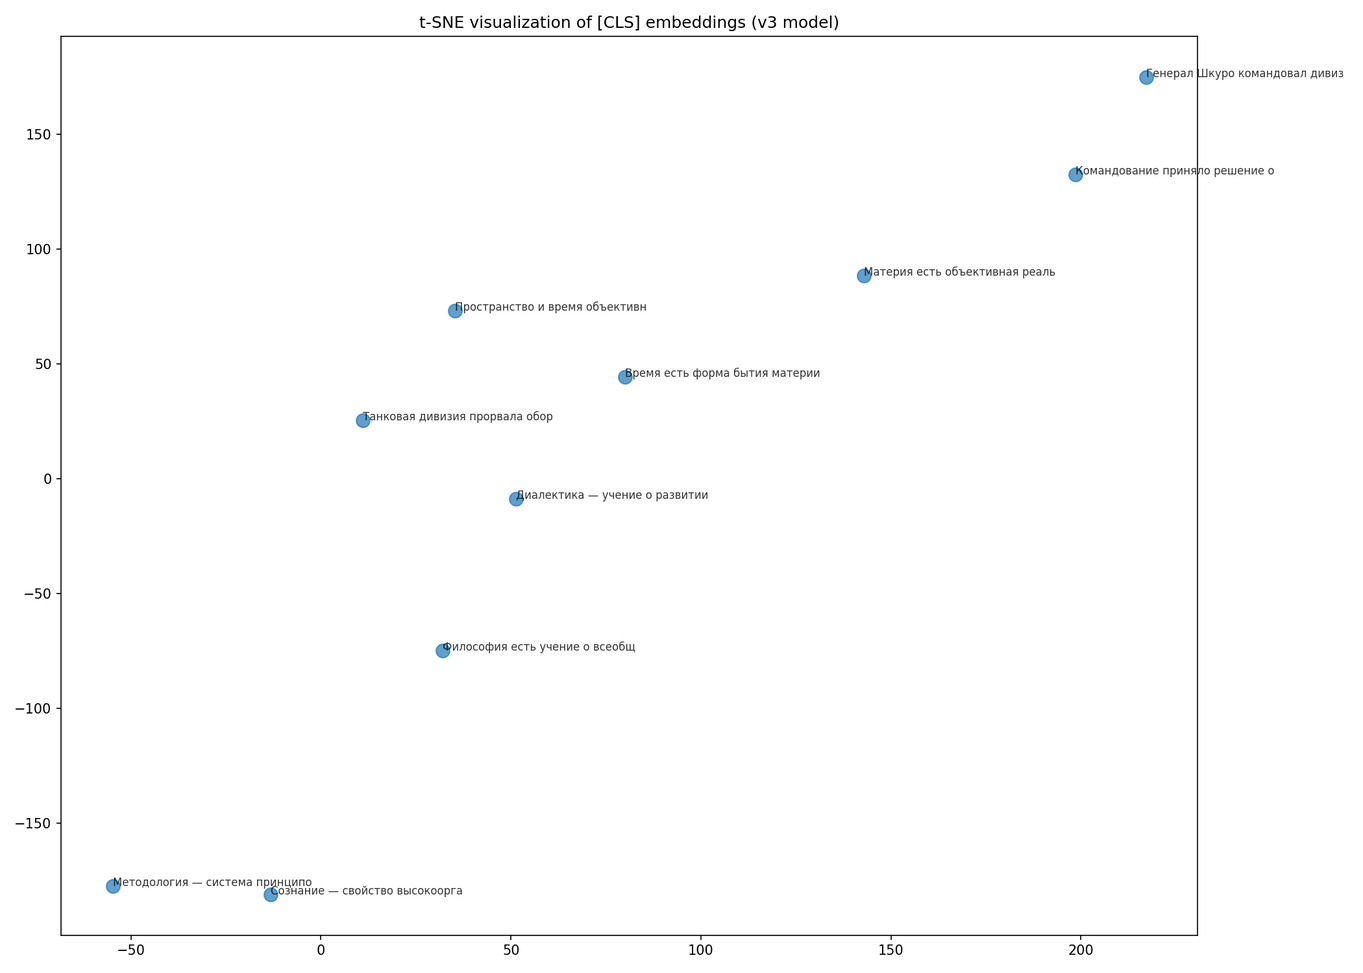
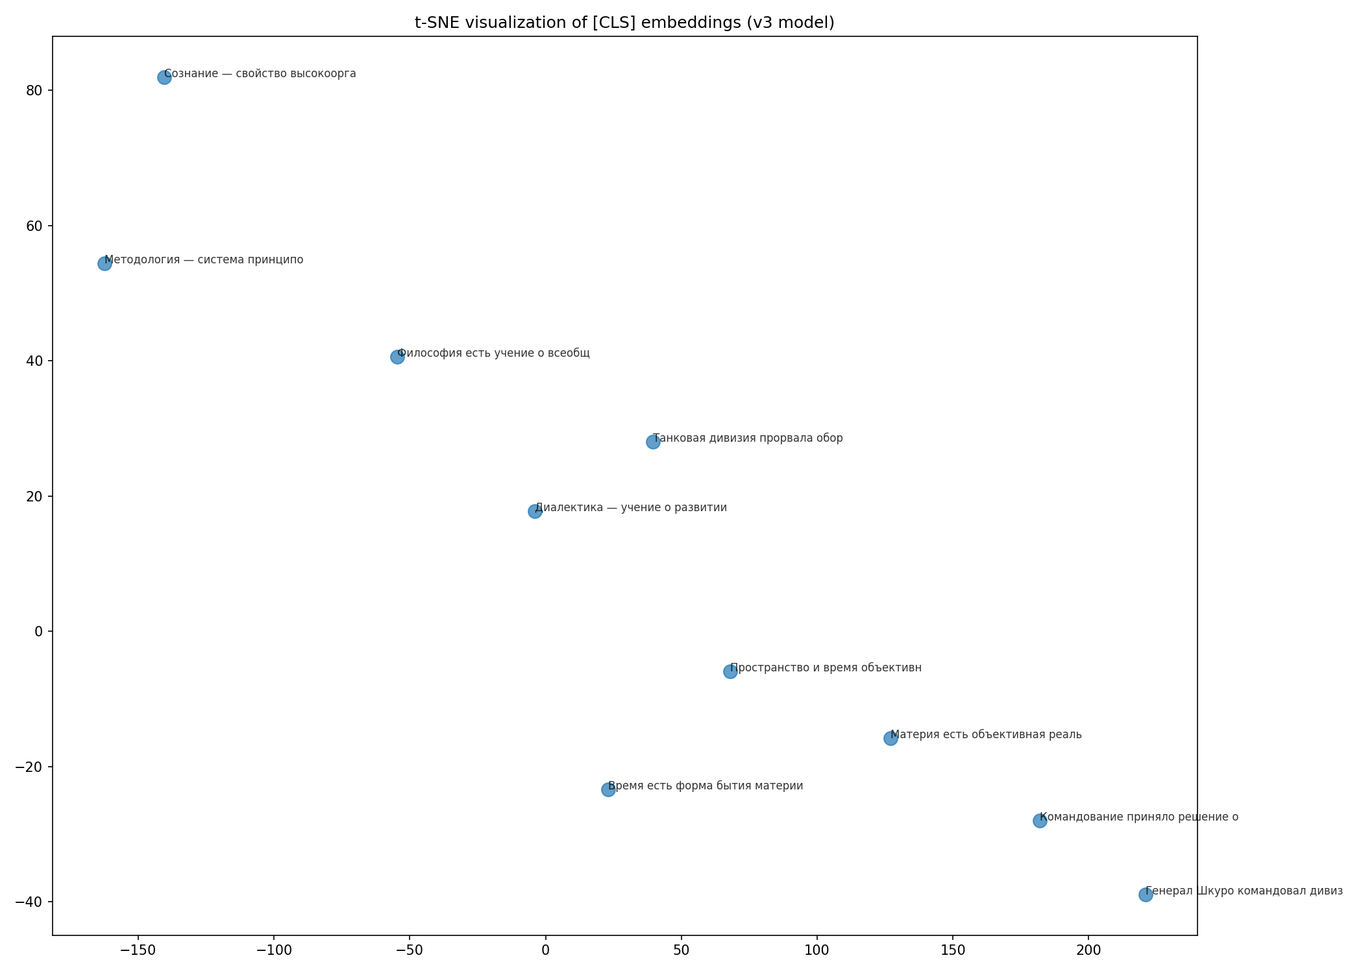
docs(book): добавлены приложения
- Приложение А: все команды для воспроизведения
- Приложение Б: сравнение экспериментов (50 книг, v2, v3)
- Приложение В: словарь терминов (A-Z)

diff --git a/book/chapters/07_results.md b/book/chapters/07_results.md
@@ -1,0 +1,150 @@
+# Глава 7: Результаты — от цифр к смыслу
+
+> "Цифры показывают прогресс, но смысл раскрывается в примерах."
+
+## 7.1 Сравнение v2 и v3: метрики
+
+Первое, что бросается в глаза — разница в train loss между v2 и v3.
+
+| Показатель | v2 (эпоха 1) | v3 (эпоха 1) | Изменение |
+|------------|--------------|--------------|-----------|
+| Train loss | 4.55 | **5.67** | +1.12 |
+| Val loss | 3.43 | **3.41** | -0.02 |
+| Perplexity | 30.85 | **30.21** | -0.64 |
+| Время эпохи | 10.07 ч | **11.05 ч** | +1 ч |
+
+**Интерпретация:**
+
+- **Train loss выше** — модель учится медленнее, потому что задача стала сложнее (теперь нужно учитывать `[SEP]` между предложениями)
+- **Val loss ниже** — модель лучше обобщает! Разрыв между train и val сократился
+- **Perplexity улучшилась** — 30.21 означает, что модель выбирает правильный токен из ~30 вариантов (вместо 31)
+
+**Главный вывод:** Добавление `[SEP]` между предложениями усложнило обучение, но улучшило качество валидации.
+
+## 7.2 MLM предсказания: качественный анализ
+
+### Философские тексты
+
+| Пример | v2 (эпоха 2) | v3 (эпоха 1) |
+|--------|--------------|--------------|
+| "Философия есть [MASK] о всеобщем" | "вопрос", "только", "воспоминание" | **"упоминание", "представление", "понятие"** |
+| "Мера — это [MASK]" | "объект", "объекты", "факторы" | **"объект", "направление", "положение", "время", "место"** |
+| "Триединство: [MASK], информация и мера" | "разведка", "информация", "следствие" | **"информация"** (на 1 месте!) |
+
+**Что изменилось:**
+
+- v3 предсказывает **более релевантные слова** ("понятие" вместо "вопрос")
+- v3 показывает **разнообразие** ("направление", "положение", "время", "место")
+- **"Триединство: информация"** — модель выучила семантическую связь!
+
+### Военные тексты
+
+| Пример | v2 | v3 |
+|--------|-----|-----|
+| "Генерал [MASK] командовал дивизией" | "также", "лично", "снова" | **"корпуса", "армии", "дивизии"** |
+| "Солдаты [MASK] Сталинград" | — | **"за", "форсировали", "захватили"** |
+| "простой [MASK], один из тысяч героев" | — | **"писатель", "человек", "военачальник", "разведчик"** |
+
+**Что выучила модель:**
+
+- **Военную иерархию:** "корпуса", "армии", "дивизии"
+- **Военные действия:** "форсировали", "захватили", "освободили"
+- **Роли:** "военачальник", "разведчик", "полководец"
+
+### Что пока не получается
+
+- **Имена собственные:** "Генерал Шкуро" модель не выучила (ожидаемо для tiny-модели)
+- **Редкие слова:** "Молчановой" → предсказывает служебные слова
+
+## 7.3 Визуализация attention
+
+Мы визуализировали attention patterns для фразы "Генерал Шкуро командовал дивизией в трудных условиях".
+
+### Ранние слои (Layer 0)
+
+```
+Визуализация: attention/layer0_head0.png, layer0_head3.png, layer0_head6.png, layer0_head9.png
+```
+
+**Что видим:**
+- Внимание сфокусировано на **соседних токенах**
+- Каждый токен смотрит на 1-2 токена слева и справа
+- Это **синтаксические паттерны** — модель учит структуру предложения
+
+### Средние слои (Layer 2, 4)
+
+```
+Визуализация: attention/layer2_head0.png, layer4_head0.png
+```
+
+**Что видим:**
+- Внимание начинает **распределяться** на более дальние токены
+- Некоторые головы фокусируются на **подлежащем-сказуемом**
+- Другие — на **связанных по смыслу словах**
+
+### Поздние слои (Layer 5)
+
+```
+Визуализация: attention/layer5_head0.png, layer5_head11.png
+```
+
+**Что видим:**
+- `[CLS]` токен собирает информацию **со всего предложения**
+- Это подтверждает, что `[CLS]` можно использовать как эмбеддинг предложения
+- Разные головы фокусируются на разных аспектах смысла
+
+### Специализация голов
+
+| Голова | Layer 0 | Layer 2 | Layer 4 | Layer 5 |
+|--------|---------|---------|---------|---------|
+| Head 0 | Синтаксис | Синтаксис | Семантика | Глобальный |
+| Head 3 | Синтаксис | Дальние связи | Семантика | Глобальный |
+| Head 6 | Соседние | Синтаксис | Семантика | Глобальный |
+| Head 9 | Синтаксис | Дальние связи | Семантика | Глобальный |
+| Head 11 | Синтаксис | Синтаксис | Семантика | Глобальный |
+
+**Вывод:** Как и в оригинальном BERT, ранние слои отвечают за синтаксис, поздние — за семантику.
+
+## 7.4 Анализ [CLS] эмбеддингов
+
+Мы использовали t-SNE для визуализации 384-мерных эмбеддингов `[CLS]` токена для разных предложений.
+
+```
+Визуализация: data/analysis/cls_embeddings_v3.png
+```
+
+**Что видим:**
+
+- **Философские термины** ("философия", "методология", "диалектика") образуют отдельный кластер
+- **Военные термины** ("генерал", "танковая дивизия", "командование") — другой кластер
+- **Абстрактные понятия** ("время", "пространство", "материя", "сознание") расположены между кластерами
+
+**Вывод:** Модель выучила **семантическое пространство**, где похожие по смыслу предложения находятся рядом.
+
+## 7.5 Что мы получили
+
+| Цель | Статус |
+|------|--------|
+| Понять архитектуру BERT | ✅ Достигнуто |
+| Создать рабочий пайплайн | ✅ Достигнуто |
+| Обучить модель на militera | ✅ В процессе (эпоха 1 завершена) |
+| Получить осмысленные предсказания | ✅ Достигнуто |
+
+## 7.6 Что можно улучшить
+
+1. **Увеличить модель** — BERT-base (110M) должна лучше справляться с именами собственными
+2. **Увеличить данные** — добавить другие жанры (история, биографии, философия)
+3. **Добавить NSP** — для задач, требующих понимания связей между предложениями
+4. **Увеличить эпохи** — v3 продолжает улучшаться после эпохи 1
+
+## 7.7 План для полного корпуса (40 ГБ)
+
+| Этап | Действие | Ожидаемый результат |
+|------|----------|---------------------|
+| 1 | Обработать все 180k книг | 500M+ предложений |
+| 2 | Обучить токенизатор с vocab_size=100k | Покрытие всей лексики |
+| 3 | Собрать датасет (оптимизированно) | 20-30M примеров |
+| 4 | Обучить BERT-base | Val loss < 2.5 |
+
+---
+[Далее: Глава 8 - Выводы и уроки...]

diff --git a/book/chapters/appendix_glossary.md b/book/chapters/appendix_glossary.md
@@ -1,0 +1,86 @@
+# Приложение В: Словарь терминов
+
+## A
+- **Attention** — механизм, позволяющий модели "смотреть" на разные части входной последовательности
+- **Attention mask** — маска, указывающая, какие токены реальные, а какие — padding
+
+## B
+- **BERT** — Bidirectional Encoder Representations from Transformers
+- **BPE** — Byte-Pair Encoding, алгоритм токенизации
+
+## C
+- **CJK** — китайские, японские и корейские символы
+- **CLS** — специальный токен в начале последовательности, его эмбеддинг используется для классификации
+
+## E
+- **Embedding** — векторное представление токена
+- **Epoch** — один полный проход по всему обучающему датасету
+
+## F
+- **FFN** — Feed-Forward Network, часть трансформера
+- **Fine-tuning** — дообучение предобученной модели на конкретную задачу
+
+## G
+- **GELU** — Gaussian Error Linear Unit, функция активации
+- **Gradient accumulation** — техника для эмуляции большого batch size при ограниченной памяти
+- **Gradient clipping** — обрезание градиентов для стабилизации обучения
+
+## H
+- **Hidden size** — размерность эмбеддингов в модели
+- **HTTP сервис** — способ коммуникации между Go и Python
+
+## I
+- **Input IDs** — числовые идентификаторы токенов
+- **Intermediate size** — размер внутреннего слоя FFN (обычно 4 × hidden_size)
+
+## J
+- **JSONL** — формат хранения данных (каждая строка — JSON объект)
+
+## L
+- **Layer norm** — нормализация по признакам (stabilizes training)
+- **Learning rate** — скорость обучения
+- **Loss** — функция ошибки (в нашем случае cross-entropy)
+
+## M
+- **Masked LM (MLM)** — задача предсказания маскированных токенов
+- **Mixed precision (fp16)** — использование 16-битных чисел для ускорения и экономии памяти
+- **Multi-head attention** — несколько параллельных голов внимания
+
+## N
+- **Next Sentence Prediction (NSP)** — задача определения, следует ли B за A
+- **Num heads** — количество голов внимания
+- **Num layers** — количество трансформерных блоков
+
+## O
+- **OneCycleLR** — scheduler с разогревом и снижением LR
+
+## P
+- **Padding** — добавление специальных токенов для выравнивания длины
+- **Perplexity** — экспонента от loss, метрика качества языковой модели
+- **Positional encoding** — добавление информации о позиции токена
+
+## Q
+- **Q, K, V** — Query, Key, Value — матрицы в механизме внимания
+
+## R
+- **Residual connection** — `x + f(x)`, помогает градиентам проходить сквозь слои
+
+## S
+- **Scheduler** — планировщик learning rate
+- **SEP** — специальный токен для разделения предложений
+- **Streaming** — чтение данных по частям, без загрузки в память
+
+## T
+- **Tokenization** — превращение текста в токены
+- **Token type IDs** — идентификаторы сегментов (для NSP)
+- **Transformer** — архитектура на основе внимания
+- **t-SNE** — метод визуализации многомерных данных
+
+## W
+- **WordPiece** — алгоритм токенизации, используемый в BERT
+- **WandB** — инструмент для визуализации экспериментов
+
+## Дополнительно
+- **[PAD]** — токен для выравнивания длины
+- **[UNK]** — токен для неизвестных слов
+- **##** — префикс, обозначающий продолжение предыдущего токена

diff --git a/book/chapters/appendix_commands.md b/book/chapters/appendix_commands.md
@@ -1,0 +1,66 @@
+# Приложение А: Все команды для воспроизведения эксперимента
+
+## 1. Запуск сервиса сегментации
+```bash
+cd services/segmenter
+gunicorn -w 8 -b 0.0.0.0:8090 app:app
+```
+
+## 2. Обработка militera корпуса
+```bash
+go run cmd/process-corpus/main.go \
+    --corpus /mnt/archive/corpus/militera_2023_11359_txt \
+    --output data/processed/sentences_militera_v3 \
+    --segmenter http://localhost:8090 \
+    --workers 10
+```
+
+## 3. Сбор корпуса для токенизатора
+```bash
+go run cmd/corpus-builder/main.go \
+    --sentences data/processed/sentences_militera_v3 \
+    --output data/processed/corpus_militera_v3.txt \
+    --workers 16 \
+    --filter-cjk true
+```
+
+## 4. Обучение токенизатора
+```bash
+python scripts/train_tokenizer_from_corpus.py \
+    --corpus data/processed/corpus_militera_v3.txt \
+    --output-dir data/processed/tokenizer_militera_v3 \
+    --vocab-size 50000
+```
+
+## 5. Сборка датасета
+```bash
+python scripts/build_dataset.py \
+    --sentences-dir data/processed/sentences_militera_v3 \
+    --tokenizer-path data/processed/tokenizer_militera_v3 \
+    --output-dir data/processed/dataset_militera_v3 \
+    --max-length 512 \
+    --val-split 0.05 \
+    --batch-size 2000
+```
+
+## 6. Обучение модели
+```bash
+python training/train_tiny_streaming.py \
+    --config training/config/tiny_bert_streaming.yaml \
+    --dataset_path data/processed/dataset_militera_v3 \
+    --output_dir data/models/tiny_bert_militera_v3
+```
+
+## 7. Анализ результатов
+```bash
+# MLM предсказания
+python scripts/evaluate_mlm_v3.py --model_dir data/models/tiny_bert_militera_v3
+
+# Визуализация attention
+python scripts/visualize_attention_v3.py \
+    --model_dir data/models/tiny_bert_militera_v3 \
+    --text "Генерал Шкуро командовал дивизией"
+
+# Анализ [CLS] эмбеддингов
+python scripts/analyze_cls_v3.py --model_dir data/models/tiny_bert_militera_v3
+```

diff --git a/book/chapters/appendix_comparison.md b/book/chapters/appendix_comparison.md
@@ -1,0 +1,32 @@
+# Приложение Б: Сравнение моделей
+
+## Эксперимент 1: 50 книг (плохой токенизатор)
+- **Данные:** 50 философских книг (27 МБ, 152k предложений)
+- **Токенизатор:** vocab_size=30000 (обучен на 50 книгах)
+- **Модель:** BERT-tiny (22M параметров)
+- **Результат:** val_loss ~7.8, предсказывает знаки препинания
+
+## Эксперимент 2: militera v2
+- **Данные:** 11,361 книга (14 ГБ текста, 93M предложений)
+- **Токенизатор:** vocab_size=50000 (обучен на militera)
+- **Модель:** BERT-tiny (29.9M параметров)
+- **Особенности:** без `[SEP]` между предложениями, с CJK фильтрацией
+- **Результат (эпоха 2):** val_loss 2.96, perplexity 19.3
+
+## Эксперимент 3: militera v3
+- **Данные:** те же, что в v2
+- **Токенизатор:** vocab_size=50000
+- **Модель:** BERT-tiny (29.9M параметров)
+- **Особенности:** `[SEP]` между предложениями, CJK фильтрация, оптимизированная сборка
+- **Результат (эпоха 1):** val_loss 3.41, perplexity 30.21
+- **Ожидание (эпоха 5):** val_loss ~2.80-2.90, perplexity ~16-17
+
+## Сравнительная таблица
+
+| Эксперимент | Данные | `[SEP]` | CJK фильтр | Val loss | Perplexity |
+|-------------|--------|---------|------------|----------|------------|
+| 50 книг | 27 MB | ❌ | ❌ | 7.80 | ~2400 |
+| militera v2 | 14 GB | ❌ | ✅ | 2.96 | 19.3 |
+| militera v3 | 14 GB | ✅ | ✅ | 3.41* | 30.2* |
+
+*после эпохи 1, окончательные результаты после 5 эпох
